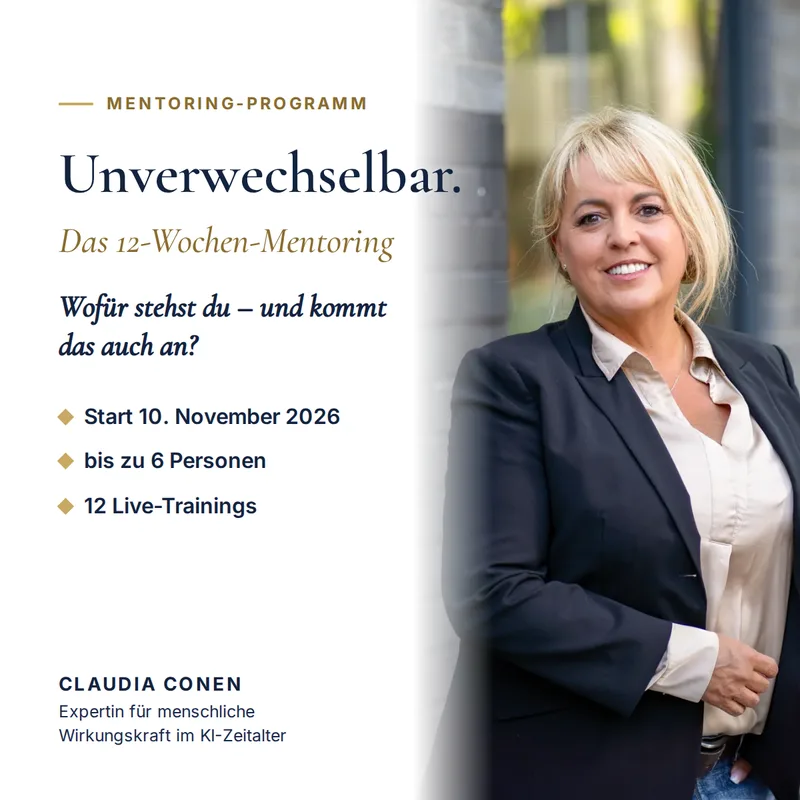
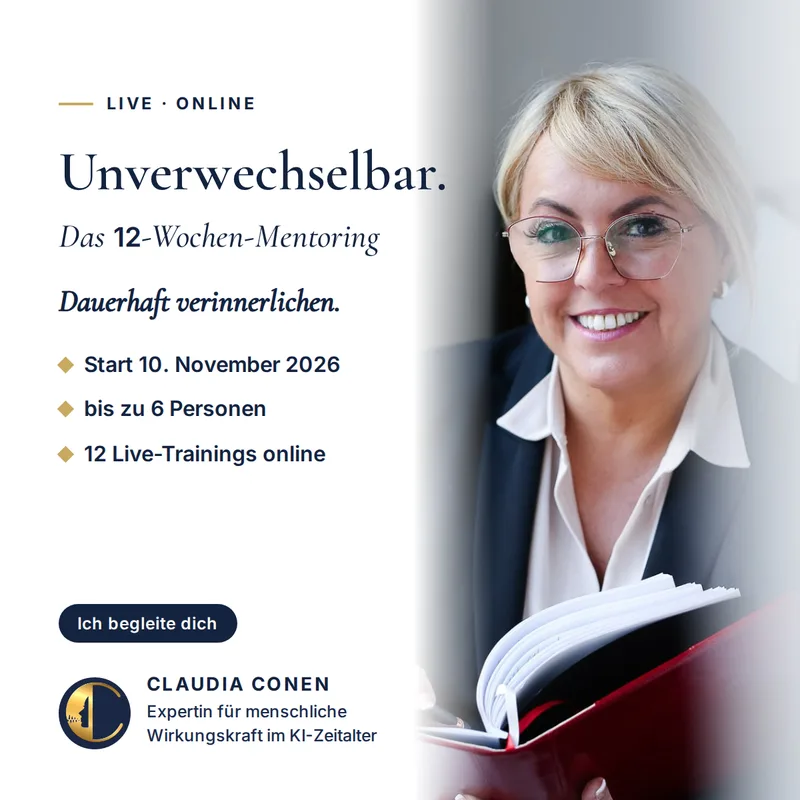
Challenge-Treppe: Stufentexte nach Claudia (Methode / Abkuerzung / dauerhaft verinnerlichen, live online), nur Einzeltermin-Bild, neues Mentoring-Bild

diff --git a/src/pages/Challenge.tsx b/src/pages/Challenge.tsx
@@ -937,24 +937,24 @@ export default function Challenge() {
           <ol className="mt-16 grid list-none gap-4 p-0 lg:grid-cols-3 lg:items-start">
             <li className={`flex flex-col p-5 sm:p-6 ${FLAECHE} rounded-[10px]`}>
               <img src="/challenge/produkte/challenge.webp" alt="Produktbild 7-Tage-Video-Challenge" width={800} height={800} loading="lazy" decoding="async" className="mb-5 w-full rounded-[8px] border border-[#13233F]/10" />
-              <span className="font-montserrat text-[11px] font-extrabold uppercase tracking-[0.2em] text-midnight-blue/80">Stufe 1 · Du bist dabei</span>
-              <h3 className="mt-3 font-montserrat text-2xl font-extrabold">Die 7-Tage-Video-Challenge</h3>
-              <p className="mt-3 font-inter text-[16px] leading-relaxed">Sieben Tage, jeden Tag ein Video, eine Minute.</p>
+              <span className="font-montserrat text-[11px] font-extrabold uppercase tracking-[0.2em] text-midnight-blue/80">Stufe 1 · Die Methode</span>
+              <h3 className="mt-3 font-montserrat text-2xl font-extrabold">Die 7-Tage-Challenge</h3>
+              <p className="mt-3 font-inter text-[16px] leading-relaxed">Dein Gratis-Programm für mehr Wirkungskraft.</p>
               <a href="#anmelden" className="mt-auto inline-flex self-start pt-6 font-montserrat text-sm font-bold text-midnight-blue underline decoration-[#C9A961] decoration-2 underline-offset-4">Jetzt eintragen ↑</a>
             </li>
             <li className={`flex flex-col bg-midnight-blue p-5 text-pearl-white sm:p-6 lg:-translate-y-6 ${KACHEL} border-[#C9A961]`}>
-              <div className="mb-5 grid grid-cols-2 gap-2"><img src="/challenge/produkte/1zu1.webp" alt="Produktbild 1:1-Intensiv-Training, 90 Minuten" width={800} height={800} loading="lazy" decoding="async" className="w-full rounded-[8px]" /><img src="/challenge/produkte/paket.webp" alt="Produktbild 1:1-Intensiv-Training, 3 × 90 Minuten" width={800} height={800} loading="lazy" decoding="async" className="w-full rounded-[8px]" /></div>
-              <span className="font-montserrat text-[11px] font-extrabold uppercase tracking-[0.2em] text-[#F7E7CE]">Stufe 2 · Du willst die Abkürzung?</span>
+              <img src="/challenge/produkte/1zu1.webp" alt="Produktbild 1:1-Intensiv-Training" width={800} height={800} loading="lazy" decoding="async" className="mb-5 w-full rounded-[8px]" />
+              <span className="font-montserrat text-[11px] font-extrabold uppercase tracking-[0.2em] text-[#F7E7CE]">Stufe 2 · Die Abkürzung</span>
               <h3 className="mt-3 font-montserrat text-2xl font-extrabold text-white">1:1-Intensiv-Training</h3>
-              <p className="mt-3 font-inter text-[16px] leading-relaxed text-pearl-white/90">Von der Selbsterkenntnis zum Selbstbewusstsein zur Kundengewinnung. 90 Minuten, nur du und Claudia, oder 3 × 90 Minuten im Paket.</p>
-              <p className="mt-2 font-inter text-sm text-pearl-white/85">Sonderpreis zur Challenge: ab 173 € zzgl. MwSt. (205,87 € inkl. MwSt.)</p>
+              <p className="mt-3 font-inter text-[16px] leading-relaxed text-pearl-white/90">Nur du und Claudia. Von der Selbsterkenntnis zum Selbstbewusstsein zur Kundengewinnung.</p>
+              <p className="mt-2 font-inter text-sm text-pearl-white/85">Sonderpreis zur Challenge: 173 € zzgl. MwSt. (205,87 € inkl. MwSt.)</p>
               <a href="/1zu1-training" className={`mt-auto inline-flex self-start rounded-full px-6 py-3 font-montserrat text-sm font-bold text-midnight-blue no-underline transition-transform hover:-translate-y-px ${GOLD}`}>Mehr erfahren →</a>
             </li>
             <li className={`flex flex-col bg-white p-5 sm:p-6 lg:-translate-y-12 ${KACHEL}`}>
-              <img src="/challenge/produkte/mentoring.webp" alt="Produktbild Unverwechselbar. Das 12-Wochen-Mentoring" width={800} height={800} loading="lazy" decoding="async" className="mb-5 w-full rounded-[8px] border border-[#13233F]/10" />
-              <span className="font-montserrat text-[11px] font-extrabold uppercase tracking-[0.2em] text-midnight-blue/75">Stufe 3 · Dauerhafte Wirkungskraft</span>
-              <h3 className="mt-3 font-montserrat text-2xl font-extrabold">Unverwechselbar. Das 12-Wochen-Mentoring</h3>
-              <p className="mt-3 font-inter text-[16px] leading-relaxed">Etwas zur Gewohnheit machen dauert circa drei Monate. Ich begleite dich.</p>
+              <img src="/challenge/produkte/mentoring.webp?v=2" alt="Produktbild Unverwechselbar. Das 12-Wochen-Mentoring" width={800} height={800} loading="lazy" decoding="async" className="mb-5 w-full rounded-[8px] border border-[#13233F]/10" />
+              <span className="font-montserrat text-[11px] font-extrabold uppercase tracking-[0.2em] text-midnight-blue/75">Stufe 3 · Dauerhaft verinnerlichen</span>
+              <h3 className="mt-3 font-montserrat text-2xl font-extrabold">Das 12-Wochen-Mentoring · live online</h3>
+              <p className="mt-3 font-inter text-[16px] leading-relaxed">Weil deine Bühne überall ist, wo du den Mund aufmachst. Zwölf Wochen, dabei begleite ich dich.</p>
               <a href="/mentoring-programm" className="mt-auto inline-flex self-start rounded-full border border-midnight-blue/25 px-6 py-3 font-montserrat text-sm font-bold text-midnight-blue no-underline transition-colors hover:border-[#D4AF37]">Zum Mentoring →</a>
             </li>
           </ol>
